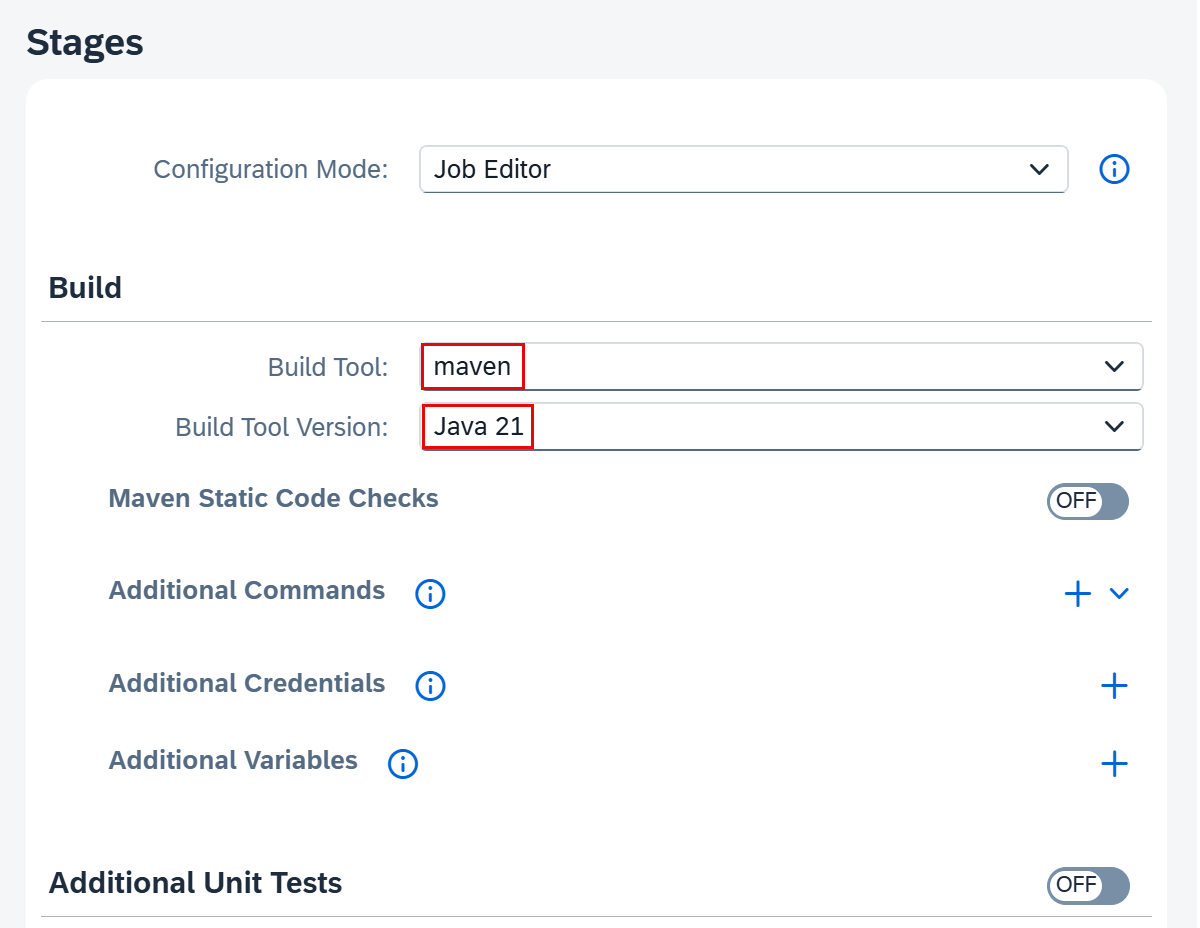
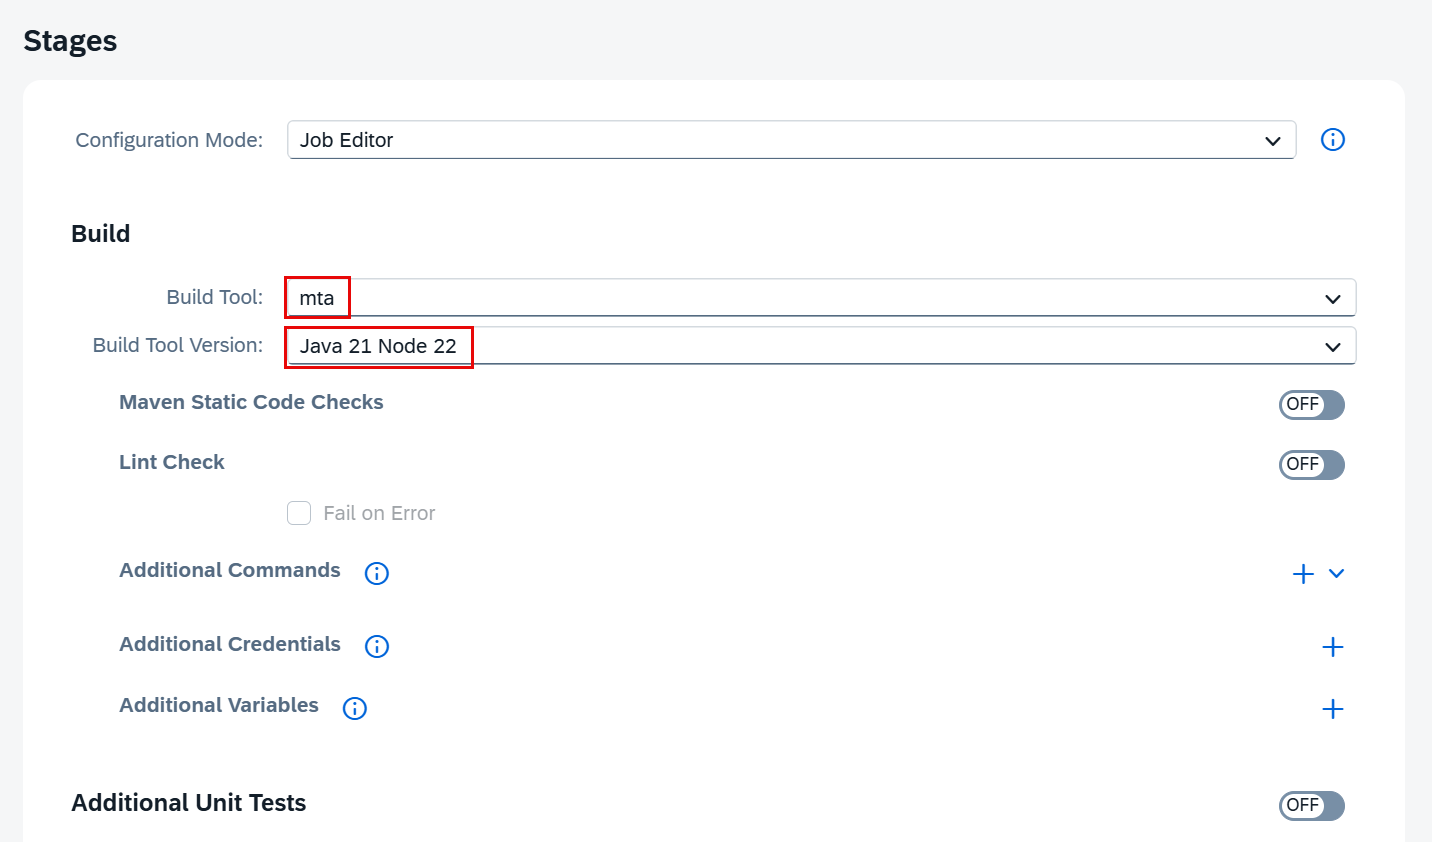
update build tool for java and update screenshot

diff --git a/tutorials/set-up-cicd/set-up-cicd.md b/tutorials/set-up-cicd/set-up-cicd.md
@@ -236,9 +236,9 @@ In this example, we'll be creating a repository on GitHub. You'll need a [GitHub
 
     <!-- border; size:540px --> ![Configure pipeline](./configure-pipeline.png)
 
-3. In the **Stages** section, select **maven** from the dropdown in the **Build Tool** field.
+3. In the **Stages** section, select **mta** from the dropdown in the **Build Tool** field.
 
-4. Select the latest Java version from the dropdown in the **Build Tool Version** field. 
+4. Select the latest Java and Node version from the dropdown in the **Build Tool Version** field. 
 
     <!-- border; size:540px --> ![Configure stages](./configure-stages-java.png)
 
